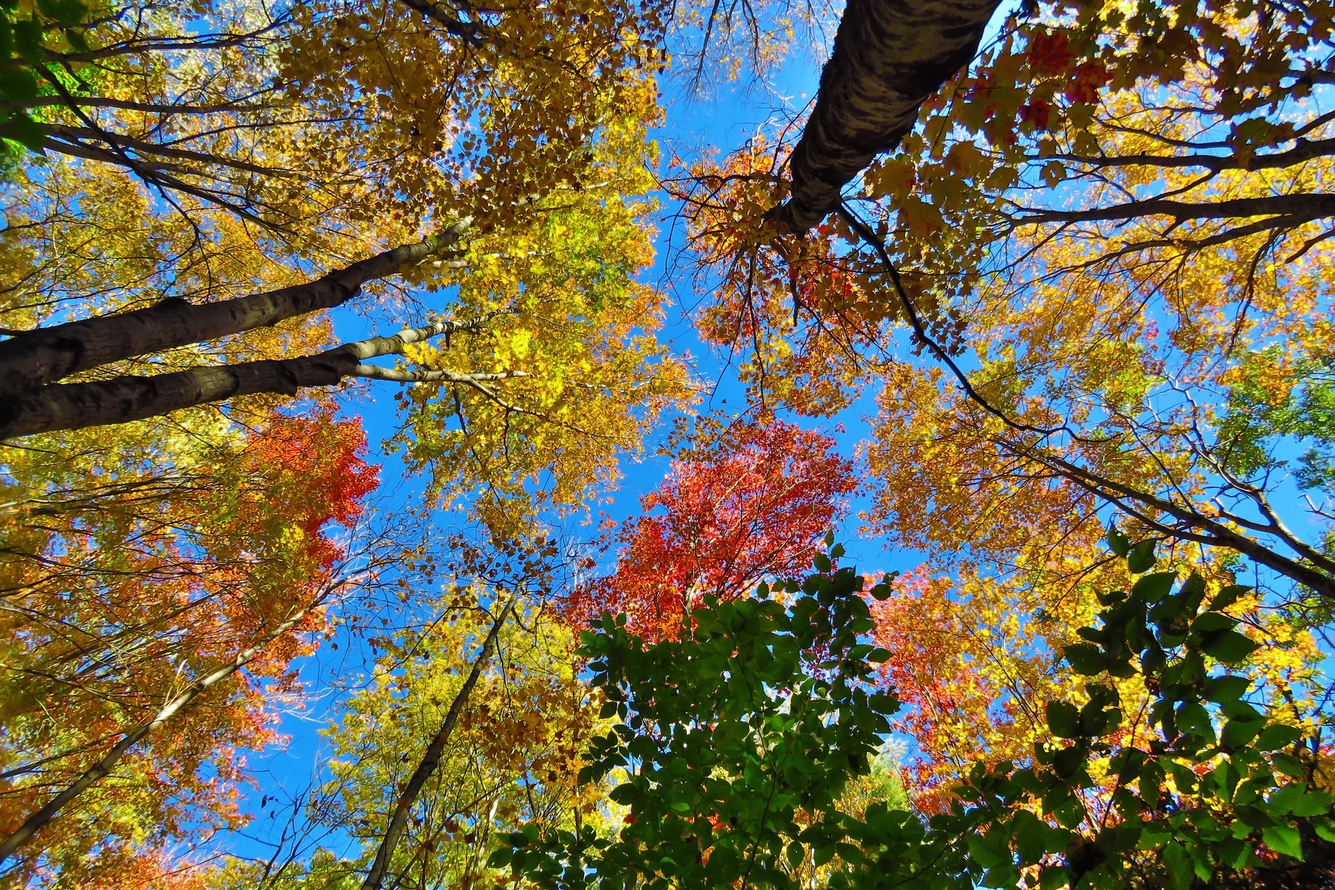
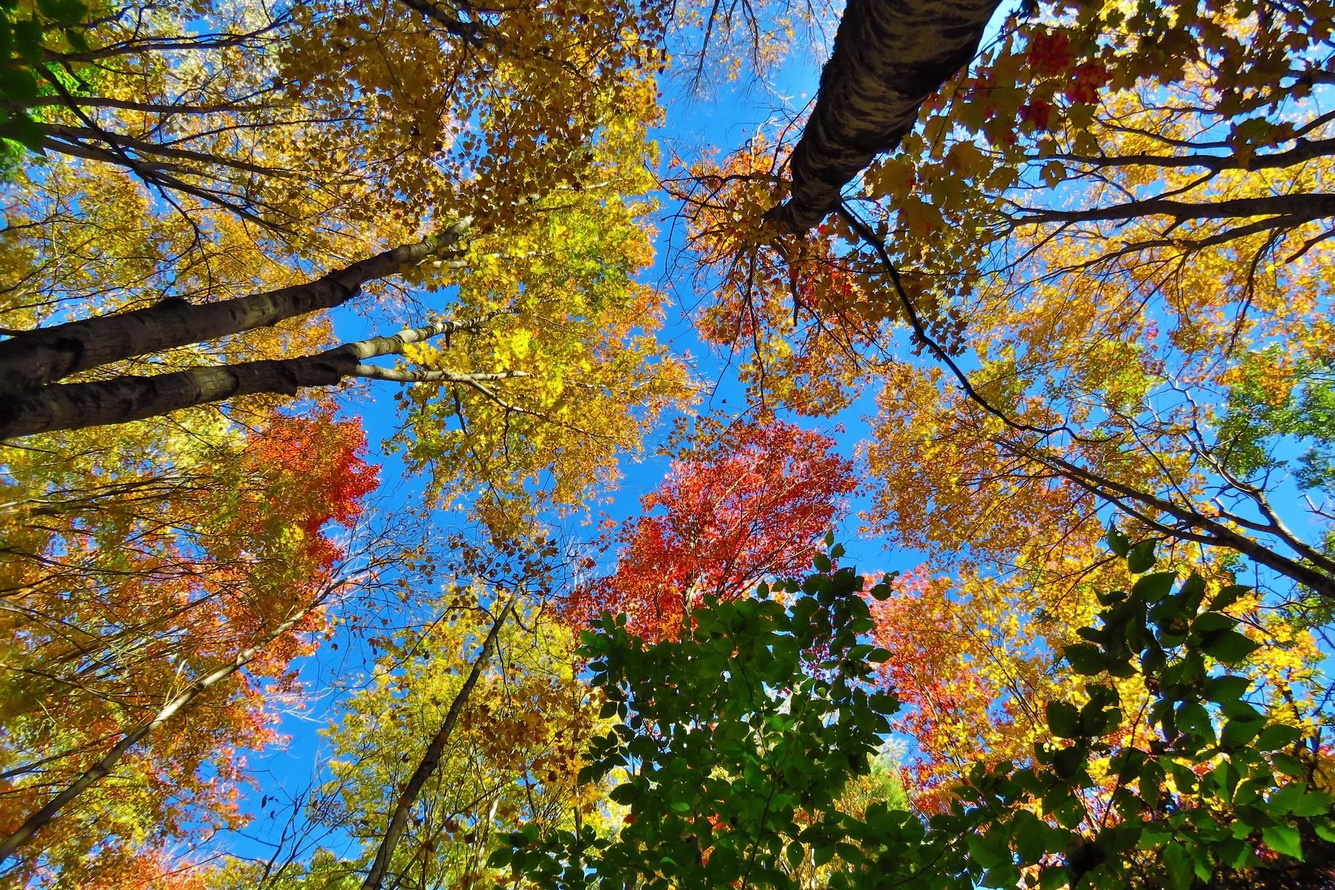
SEO fixes: canonicals, footer links, titles, images

diff --git a/index.html b/index.html
@@ -13,8 +13,8 @@ j=d.createElement(s),dl=l!='dataLayer'?'&l='+l:'';j.async=true;j.src=
 
     <meta charset="UTF-8" />
     <meta name="viewport" content="width=device-width, initial-scale=1.0" />
-    <title>Integra Tree Services | Tree Removal in Surrey, Delta, White Rock & Langley</title>
-    <meta name="description" content="Professional tree removal, trimming &amp; arborist services in Surrey, Delta, White Rock &amp; Langley. Licensed &amp; insured tree care experts with health assessments. Free estimates. Call 604-968-9997.">
+    <title>Tree Removal & Arborist Services Surrey BC | Integra Tree</title>
+    <meta name="description" content="Licensed &amp; insured tree removal, pruning &amp; arborist services in Surrey, White Rock, Delta &amp; Langley. Free estimates. Call 604-968-9997.">
     <meta name="author" content="Integra Tree Services" />
     
     <!-- Fonts -->
@@ -26,8 +26,6 @@ j=d.createElement(s),dl=l!='dataLayer'?'&l='+l:'';j.async=true;j.src=
     
     
     <meta property="og:type" content="website" />
-    <link rel="canonical" href="https://integratreeservice.com/" />
-    <meta property="og:url" content="https://integratreeservice.com/" />
     <meta property="og:site_name" content="Integra Tree Services" />
 
     <meta name="twitter:card" content="summary_large_image" />
@@ -54,10 +52,10 @@ j=d.createElement(s),dl=l!='dataLayer'?'&l='+l:'';j.async=true;j.src=
 
     gtag('config', 'AW-16561777245');
   </script>
-  <meta property="og:title" content="Integra Tree Services | Tree Removal in Surrey, Delta, White Rock & Langley">
-  <meta name="twitter:title" content="Integra Tree Services | Tree Removal in Surrey, Delta, White Rock & Langley">
-  <meta property="og:description" content="Professional tree removal, trimming &amp; arborist services in Surrey, Delta, White Rock &amp; Langley. Licensed &amp; insured tree care experts with health assessments. Free estimates. Call 604-968-9997.">
-  <meta name="twitter:description" content="Professional tree removal, trimming &amp; arborist services in Surrey, Delta, White Rock &amp; Langley. Licensed &amp; insured tree care experts with health assessments. Free estimates. Call 604-968-9997.">
+  <meta property="og:title" content="Tree Removal & Arborist Services Surrey BC | Integra Tree">
+  <meta name="twitter:title" content="Tree Removal & Arborist Services Surrey BC | Integra Tree">
+  <meta property="og:description" content="Licensed &amp; insured tree removal, pruning &amp; arborist services in Surrey, White Rock, Delta &amp; Langley. Free estimates. Call 604-968-9997.">
+  <meta name="twitter:description" content="Licensed &amp; insured tree removal, pruning &amp; arborist services in Surrey, White Rock, Delta &amp; Langley. Free estimates. Call 604-968-9997.">
   <meta name="twitter:image" content="/android-chrome-512x512.png?v=3">
   <script type="application/ld+json">
 {

diff --git a/src/pages/Index.tsx b/src/pages/Index.tsx
@@ -44,8 +44,8 @@ const Index = () => {
   }];
   return <div>
   <SEO
-    title="Integra Tree Services | Tree Removal in Surrey, Delta, White Rock & Langley"
-    description="Professional tree removal, trimming and arborist services in Surrey, Delta, White Rock and Langley. Licensed and insured tree care experts with health assessments. Free estimates. Call 604-968-9997."
+    title="Tree Removal & Arborist Services Surrey BC | Integra Tree"
+    description="Licensed & insured tree removal, pruning & arborist services in Surrey, White Rock, Delta & Langley. Free estimates. Call 604-968-9997."
     canonicalPath="/"
   />
       {/* Hero Section */}
@@ -66,7 +66,7 @@ const Index = () => {
               <div className="flex justify-center md:justify-start">
                 <img loading="lazy" decoding="async" src="/lovable-uploads/07200f5d-757d-4f85-8683-68ba4c9727e2.png" alt="Integra Tree Services" className="h-16 md:h-20 w-auto object-contain" />
               </div>
-              <h1 className="font-serif text-2xl md:text-3xl font-bold text-primary-foreground text-center md:text-left leading-tight">Certified Tree Service in Surrey, White Rock & the Lower Mainland
+              <h2 className="font-serif text-2xl md:text-3xl font-bold text-primary-foreground text-center md:text-left leading-tight">Certified Tree Service in Surrey, White Rock & the Lower Mainland
 
 
 
@@ -74,7 +74,7 @@ const Index = () => {
 
 
 
-                                                                </h1>
+                                                                </h2>
               <div className="md:hidden">
                 <p className="text-sm text-primary-foreground/90 leading-relaxed text-center">
                   Dangerous Tree Removals • Pruning & Vista Pruning • Hedge Trimming • Tree Planting • Risk Assessments

diff --git a/src/pages/Quote.tsx b/src/pages/Quote.tsx
@@ -19,7 +19,7 @@ const Quote = () => {
   return <div className="py-12">
   <SEO
     title="Free Tree Service Estimate | Integra Tree Service"
-    description="Request a free tree service estimate from Integra Tree Service for tree removal, pruning, hedge trimming, risk assessments, and emergency tree service in Surrey and the Lower Mainland."
+    description="Request a free estimate from Integra Tree Service for tree removal, pruning, hedge trimming, or stump grinding in Surrey and the Lower Mainland."
     canonicalPath="/quote"
   />
       <div className="container">

diff --git a/src/pages/TreeRemovalSurrey.tsx b/src/pages/TreeRemovalSurrey.tsx
@@ -8,7 +8,7 @@ const TreeRemovalSurrey = () => {
     <div className="py-12">
       <SEO
         title="Tree Removal Surrey | Integra Tree Service"
-        description="Integra Tree Service provides safe tree removal in Surrey and the Lower Mainland. Certified arborists handle hazardous trees, removals, cleanup, and free estimates."
+        description="Safe tree removal in Surrey and the Lower Mainland by certified arborists. Insured, careful crews and free written estimates. Call 604-968-9997."
         canonicalPath="/tree-removal-surrey"
       />
 

diff --git a/src/components/Footer.tsx b/src/components/Footer.tsx
@@ -9,6 +9,9 @@ const Footer = () => {
     { name: "Emergency Tree Service", href: "/emergency-tree-service" },
     { name: "Arborist Surrey", href: "/arborist-surrey" },
     { name: "Tree Pruning Surrey", href: "/tree-pruning-surrey" },
+    { name: "Hedge Trimming Surrey", href: "/hedge-trimming-surrey" },
+    { name: "Lot Clearing Surrey", href: "/lot-clearing-surrey" },
+    { name: "Stump Grinding Surrey", href: "/stump-grinding-surrey" },
     { name: "Get a Quote", href: "/quote" },
   ];
 

diff --git a/src/pages/About.tsx b/src/pages/About.tsx
@@ -5,7 +5,7 @@ import SEO from "@/components/SEO";
 const About = () => {
   return <div className="py-12">
     <SEO
-  title="About Integra Tree Service | Certified Arborists in Surrey & Lower Mainland"
+  title="About Integra Tree Service | Certified Arborists Surrey BC"
   description="Learn about Integra Tree Service, a father-and-son certified arborist team serving Surrey, White Rock, Delta, Langley, and the Lower Mainland."
   canonicalPath="/about"
   />
